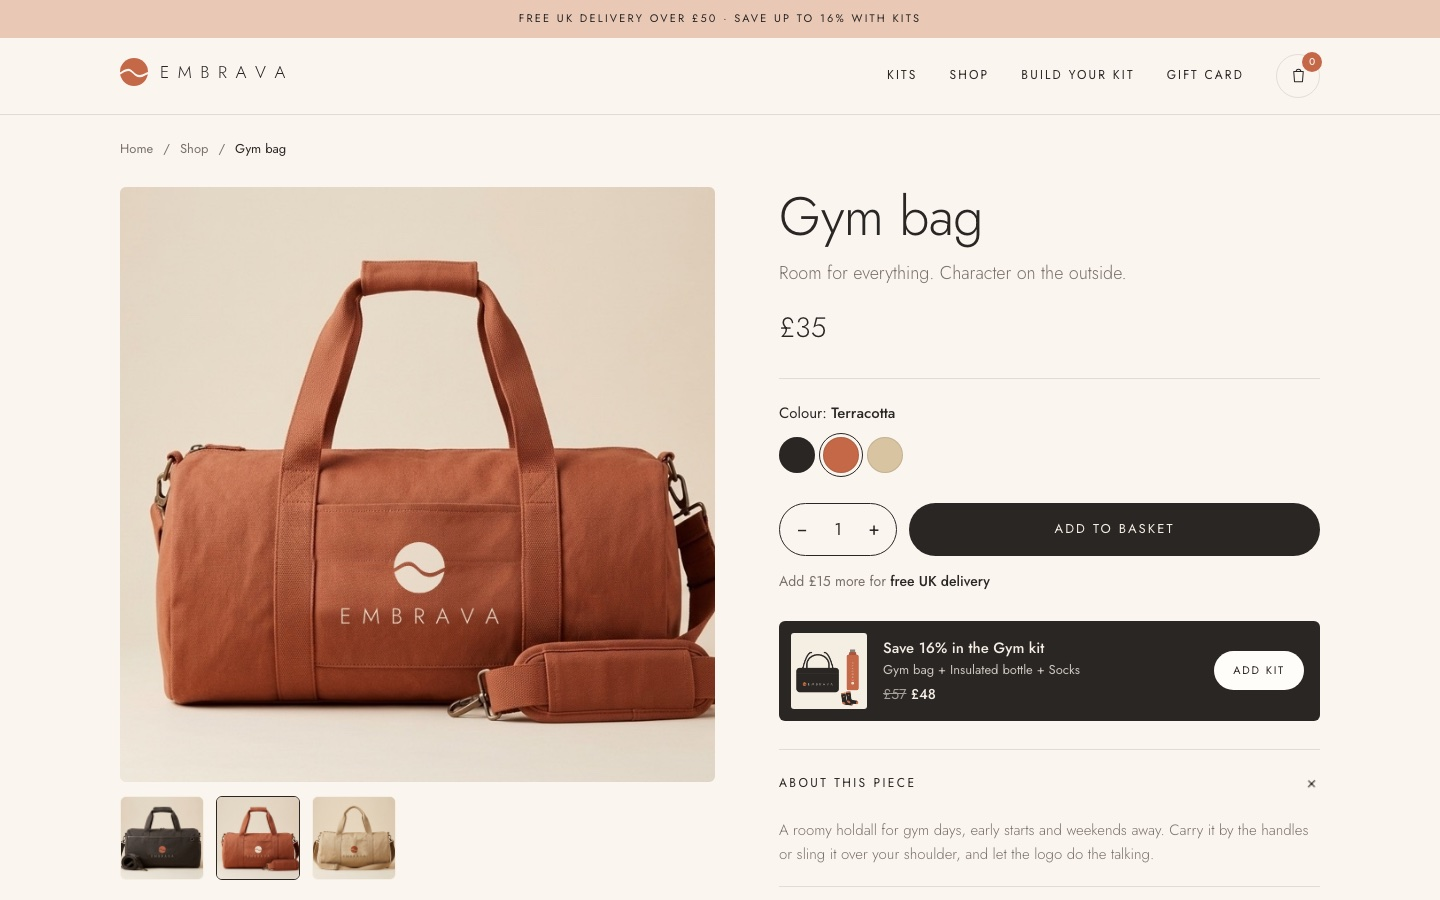
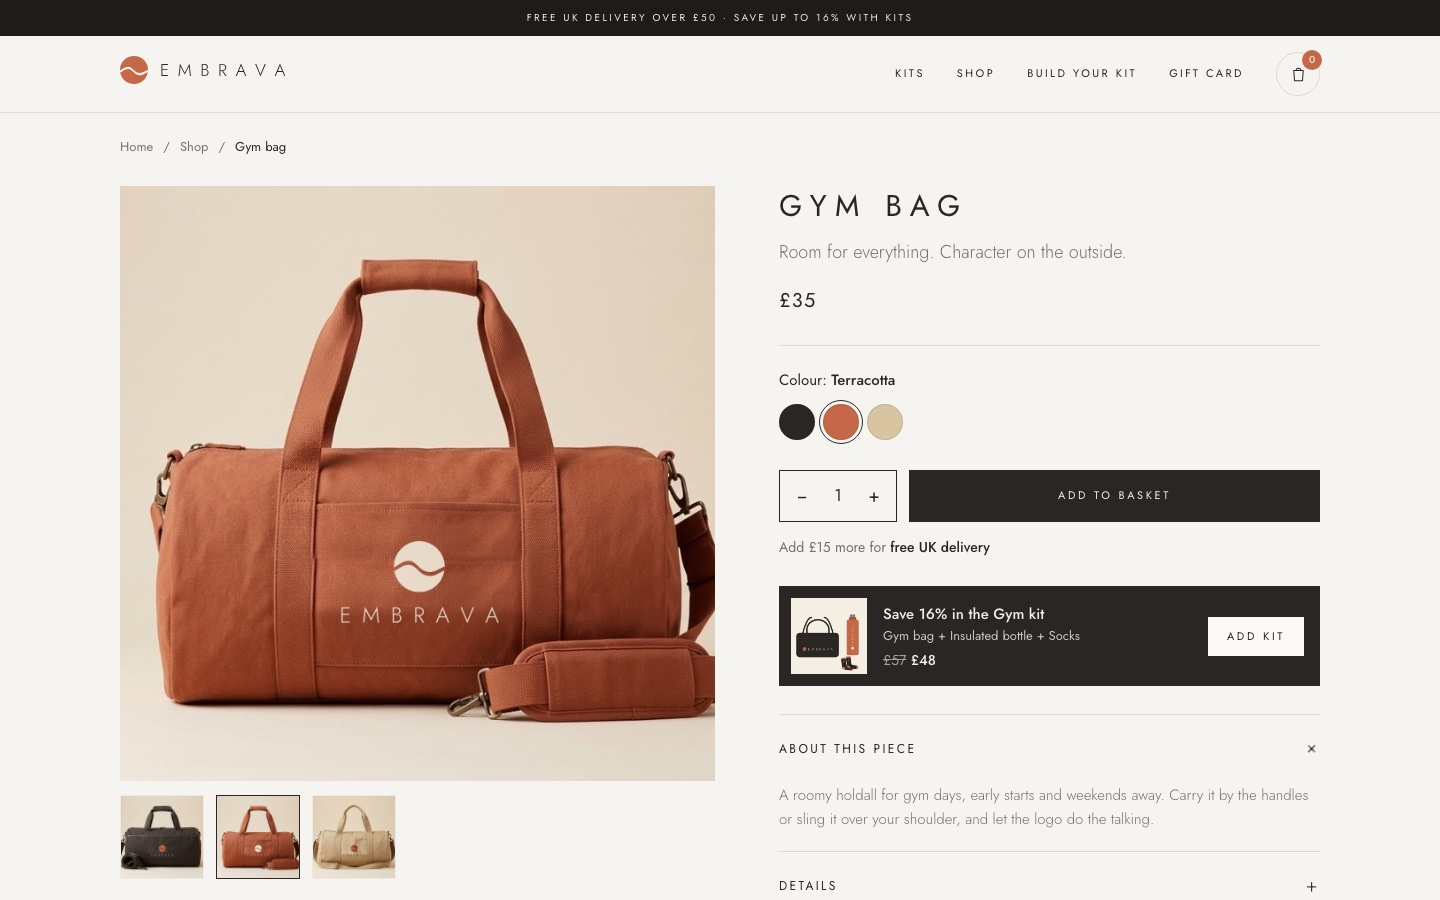
Editorial refresh: split full-bleed hero, spaced uppercase type, square corners and quieter neutrals across the store

diff --git a/styles.css b/styles.css
@@ -8,15 +8,15 @@
   --sand: #D9C4A2;
   --sand-soft: #E9DCC4;
   --cream: #F4EEE3;
-  --paper: #FAF6EF;
+  --paper: #F6F4F0;
   --line: rgba(42, 38, 36, .12);
   --muted: #7A706A;
   --bg: var(--paper);
-  --surface: #FFFDF9;
-  --surface-2: var(--cream);
+  --surface: #FBFAF7;
+  --surface-2: #EDEAE4;
   --on-dark: var(--cream);
   --grey: #B8ACA3;
-  --radius: 6px;
+  --radius: 0px;
   --font: "Jost", system-ui, -apple-system, "Segoe UI", sans-serif;
 }
 
@@ -62,9 +62,9 @@ strong { font-weight: 500; }
 .btn {
   display: inline-flex; align-items: center; justify-content: center; gap: 8px;
   padding: 15px 30px;
-  border-radius: 999px;
+  border-radius: 0;
   border: 1px solid transparent;
-  font-weight: 400; font-size: 13px; letter-spacing: .16em; text-transform: uppercase;
+  font-weight: 400; font-size: 11px; letter-spacing: .24em; text-transform: uppercase;
   text-decoration: none;
   transition: background .2s, color .2s, border-color .2s, transform .1s;
 }
@@ -81,18 +81,18 @@ strong { font-weight: 500; }
 
 /* Announcement + header */
 .announce {
-  background: var(--blush); color: var(--dark);
-  text-align: center; font-size: 11px; padding: 10px 16px; letter-spacing: .2em; text-transform: uppercase;
+  background: #1E1C1B; color: #EDEAE4;
+  text-align: center; font-size: 10px; padding: 10px 16px; letter-spacing: .24em; text-transform: uppercase;
 }
 .header {
   position: sticky; top: 0; z-index: 20;
-  background: rgba(250, 246, 239, .9);
+  background: rgba(246, 244, 240, .94);
   backdrop-filter: blur(10px);
   border-bottom: 1px solid var(--line);
 }
 .header__inner { display: flex; align-items: center; gap: 32px; height: 76px; }
 .header__logo { flex-shrink: 0; }
-.nav { display: flex; gap: 32px; margin-left: auto; font-size: 12px; letter-spacing: .18em; text-transform: uppercase; }
+.nav { display: flex; gap: 32px; margin-left: auto; font-size: 11px; letter-spacing: .22em; text-transform: uppercase; }
 .nav a { text-decoration: none; position: relative; padding: 4px 0; }
 .nav a::after {
   content: ""; position: absolute; left: 0; right: 0; bottom: -2px; height: 1px;
@@ -115,37 +115,25 @@ strong { font-weight: 500; }
 .cart-btn.bump { animation: bump .35s; }
 @keyframes bump { 50% { transform: scale(1.15); } }
 
-/* Hero */
-.hero { position: relative; padding: 56px 0 80px; overflow: hidden; }
-.hero__inner { position: relative; z-index: 1; display: grid; grid-template-columns: .85fr 1.15fr; gap: 28px; align-items: stretch; }
-.hero__copy { display: flex; flex-direction: column; justify-content: center; background: var(--surface-2); border-radius: var(--radius); padding: 48px 44px; }
+/* Hero: text on its own side, photo bleeding to the edge */
+.hero { display: grid; grid-template-columns: 1fr 1.25fr; min-height: 720px; }
+.hero__copy { display: flex; flex-direction: column; justify-content: flex-end; padding: 72px 64px 72px max(16px, calc((100vw - 1200px) / 2)); }
 /* One display style for the hero and every section title */
-.hero h1, .section__head h2, .gift__copy h2 { font-size: clamp(40px, 4.8vw, 64px); font-weight: 400; letter-spacing: 0.01em; line-height: 1.06; }
-.hero h1 { margin-bottom: 24px; }
-.hero__lead { font-size: 17px; font-weight: 400; color: #5F5650; max-width: 28em; margin: 0 0 36px; }
-.hero__ctas { display: flex; gap: 12px; flex-wrap: wrap; }
-.hero__swatches { list-style: none; padding: 0; margin: 44px 0 0; display: flex; gap: 22px; flex-wrap: wrap; font-size: 11px; letter-spacing: .18em; text-transform: uppercase; color: var(--muted); }
-.hero__swatches li { display: flex; align-items: center; gap: 8px; }
-.hero__swatches span { width: 12px; height: 12px; border-radius: 50%; background: var(--c); box-shadow: inset 0 0 0 1px var(--line); }
-.hero__media { position: relative; }
-.hero__img {
-  position: relative; z-index: 1; aspect-ratio: 4 / 3; object-fit: cover; height: 100%;
-  border-radius: var(--radius); width: 100%;
-}
-.hero__tag {
-  position: absolute; z-index: 2; left: 20px; bottom: 20px;
-  display: flex; align-items: center; gap: 10px;
-  background: var(--surface); border-radius: 999px; padding: 9px 16px 9px 10px;
-  font-size: 11px; letter-spacing: .16em; text-transform: uppercase;
-}
+.hero h1, .section__head h2, .gift__copy h2 { font-size: clamp(22px, 2.3vw, 30px); font-weight: 400; letter-spacing: .28em; text-transform: uppercase; line-height: 1.35; }
+.hero h1 { margin-bottom: 32px; }
+.hero__links { display: flex; gap: 36px; flex-wrap: wrap; }
+.hero__links a { font-size: 11px; letter-spacing: .3em; text-transform: uppercase; text-decoration: none; border-bottom: 1px solid currentColor; padding-bottom: 6px; white-space: nowrap; }
+.hero__links a:hover { color: var(--muted); }
+.hero__media { position: relative; background: var(--surface-2); }
+.hero__img { position: absolute; inset: 0; width: 100%; height: 100%; object-fit: cover; object-position: 50% 55%; }
 
 /* Sections */
-.section { padding: 112px 0; }
+.section { padding: 96px 0; }
 .section--tight { padding: 56px 0; }
 .section--sand { background: var(--surface-2); }
 .section__head { margin-bottom: 52px; max-width: 780px; }
 .section__head--row { display: flex; justify-content: space-between; align-items: flex-end; gap: 24px; max-width: none; flex-wrap: wrap; }
-.section__sub { color: var(--muted); font-size: 17px; font-weight: 300; margin: 16px 0 0; }
+.section__sub { color: var(--muted); font-size: 14px; font-weight: 300; letter-spacing: .02em; margin: 14px 0 0; }
 .section--sand .section__sub { color: var(--muted); }
 
 /* Kits */
@@ -160,10 +148,10 @@ strong { font-weight: 500; }
 .kit:hover { transform: translateY(-3px); }
 .kit--terracotta { --bg: var(--terracotta-soft); --fg: var(--dark); --accent: var(--dark); }
 .kit--sand { --bg: var(--blush); --fg: var(--dark); --accent: var(--terracotta); }
-.kit__img { border-radius: 3px; aspect-ratio: 1; object-fit: cover; margin-bottom: 18px; }
+.kit__img { border-radius: 0; aspect-ratio: 1; object-fit: cover; margin-bottom: 18px; }
 .kit__body { padding: 0 8px; display: flex; flex-direction: column; flex: 1; }
-.kit__badge { align-self: flex-start; font-size: 10px; letter-spacing: .2em; text-transform: uppercase; padding: 4px 10px; border-radius: 999px; border: 1px solid currentColor; opacity: .85; margin-bottom: 14px; }
-.kit h3 { font-size: 26px; margin-bottom: 4px; }
+.kit__badge { align-self: flex-start; font-size: 10px; letter-spacing: .2em; text-transform: uppercase; padding: 4px 10px; border-radius: 0; border: 1px solid currentColor; opacity: .85; margin-bottom: 14px; }
+.kit h3 { font-size: 15px; font-weight: 400; letter-spacing: .24em; text-transform: uppercase; margin-bottom: 6px; }
 .kit__for { font-size: 14px; font-weight: 300; opacity: .8; margin: 0 0 16px; }
 .kit__items { list-style: none; padding: 0; margin: 0 0 22px; font-size: 14px; font-weight: 300; }
 .kit__items li { padding: 6px 0; border-top: 1px solid color-mix(in srgb, var(--fg) 18%, transparent); }
@@ -194,25 +182,25 @@ strong { font-weight: 500; }
 .filters { display: flex; gap: 8px; flex-wrap: wrap; }
 .chip {
   border: 1px solid var(--line); background: transparent;
-  padding: 8px 18px; border-radius: 999px; font-size: 11px; letter-spacing: .16em; text-transform: uppercase;
+  padding: 8px 18px; border-radius: 0; font-size: 10px; letter-spacing: .22em; text-transform: uppercase;
   transition: background .2s, color .2s;
 }
 .chip:hover { border-color: var(--dark); }
 .chip[aria-pressed="true"] { background: var(--dark); border-color: var(--dark); color: var(--on-dark); }
 
 /* Product grid */
-.grid { display: grid; grid-template-columns: repeat(3, 1fr); gap: 48px 28px; }
+.grid { display: grid; grid-template-columns: repeat(3, 1fr); gap: 44px 12px; }
 .card { display: flex; flex-direction: column; }
 .card__media { position: relative; border-radius: var(--radius); overflow: hidden; aspect-ratio: 1; background: var(--surface-2); }
 .card__media img { width: 100%; height: 100%; object-fit: cover; transition: opacity .25s, transform .5s; }
 .card:hover .card__media img { transform: scale(1.03); }
 .card__media img.is-fading { opacity: 0; }
-.card__tag { position: absolute; top: 14px; left: 14px; background: var(--surface); font-size: 10px; letter-spacing: .2em; text-transform: uppercase; padding: 5px 11px; border-radius: 999px; }
-.card__body { padding: 18px 2px 0; display: flex; flex-direction: column; gap: 10px; flex: 1; }
+.card__tag { position: absolute; top: 14px; left: 14px; background: var(--surface); font-size: 10px; letter-spacing: .2em; text-transform: uppercase; padding: 5px 11px; border-radius: 0; }
+.card__body { padding: 16px 2px 0; display: flex; flex-direction: column; gap: 10px; flex: 1; }
 .card__top { display: flex; justify-content: space-between; align-items: baseline; gap: 12px; }
-.card h3 { font-size: 19px; font-weight: 400; letter-spacing: 0; }
-.card__price { font-weight: 400; font-size: 17px; white-space: nowrap; }
-.card__color { font-size: 13px; font-weight: 300; color: var(--muted); }
+.card h3 { font-size: 12px; font-weight: 400; letter-spacing: .2em; text-transform: uppercase; }
+.card__price { font-weight: 400; font-size: 13px; letter-spacing: .08em; white-space: nowrap; }
+.card__color { font-size: 12px; font-weight: 300; color: var(--muted); }
 .card__foot { display: flex; justify-content: space-between; align-items: center; margin-top: auto; padding-top: 6px; }
 .swatches { display: flex; gap: 8px; }
 .swatch {
@@ -224,7 +212,7 @@ strong { font-weight: 500; }
 .add-btn {
   display: inline-flex; align-items: center; gap: 6px;
   background: transparent; color: var(--dark); border: 1px solid var(--dark);
-  padding: 9px 16px; border-radius: 999px; font-size: 11px; letter-spacing: .16em; text-transform: uppercase;
+  padding: 9px 16px; border-radius: 0; font-size: 10px; letter-spacing: .22em; text-transform: uppercase;
   transition: background .2s, color .2s;
 }
 .add-btn:hover { background: var(--dark); color: var(--on-dark); }
@@ -246,8 +234,8 @@ strong { font-weight: 500; }
 }
 .pick:hover { transform: translateY(-2px); }
 .pick[aria-pressed="true"] { border-color: var(--dark); }
-.pick img { border-radius: 3px; aspect-ratio: 1; object-fit: cover; width: 100%; }
-.pick__name { display: block; font-weight: 400; font-size: 14px; margin: 12px 4px 0; }
+.pick img { border-radius: 0; aspect-ratio: 1; object-fit: cover; width: 100%; }
+.pick__name { display: block; font-weight: 400; font-size: 11px; letter-spacing: .2em; text-transform: uppercase; margin: 12px 4px 2px; }
 .pick__price { display: block; font-size: 13px; color: var(--muted); margin: 0 4px; }
 .pick__check {
   position: absolute; top: 14px; right: 14px; width: 28px; height: 28px; border-radius: 50%;
@@ -295,7 +283,7 @@ strong { font-weight: 500; }
 .footer__news label { display: block; font-size: 12px; letter-spacing: .2em; text-transform: uppercase; margin-bottom: 14px; }
 .footer__news-row { display: flex; gap: 8px; }
 .footer__news input {
-  flex: 1; min-width: 0; padding: 13px 18px; border-radius: 999px; border: 1px solid #574E4A;
+  flex: 1; min-width: 0; padding: 13px 18px; border-radius: 0; border: 1px solid #574E4A;
   background: transparent; color: var(--on-dark); font: inherit; font-size: 15px;
 }
 .footer__news input::placeholder { color: #8F837B; }
@@ -326,10 +314,10 @@ strong { font-weight: 500; }
 .cart__empty { padding: 48px 0; text-align: center; color: var(--muted); }
 .cart__empty svg { width: 48px; height: 48px; color: var(--blush); margin: 0 auto 16px; display: block; }
 .line { display: grid; grid-template-columns: 72px 1fr auto; gap: 14px; padding: 16px 0; border-bottom: 1px solid var(--line); align-items: center; }
-.line img { width: 72px; height: 72px; object-fit: cover; border-radius: 3px; }
+.line img { width: 72px; height: 72px; object-fit: cover; border-radius: 0; }
 .line__name { font-weight: 400; font-size: 15px; }
 .line__meta { font-size: 13px; color: var(--muted); }
-.qty { display: inline-flex; align-items: center; border: 1px solid var(--line); border-radius: 999px; margin-top: 6px; }
+.qty { display: inline-flex; align-items: center; border: 1px solid var(--line); border-radius: 0; margin-top: 6px; }
 .qty button { width: 28px; height: 28px; border: 0; background: transparent; font-size: 16px; }
 .qty span { min-width: 20px; text-align: center; font-size: 14px; }
 .line__price { font-weight: 400; text-align: right; }
@@ -341,7 +329,7 @@ strong { font-weight: 500; }
 .toast {
   position: fixed; left: 50%; bottom: 24px; z-index: 60;
   transform: translate(-50%, calc(100% + 40px)); visibility: hidden; transition: transform .3s, visibility .3s;
-  background: var(--dark); color: var(--on-dark); padding: 12px 20px; border-radius: 999px; font-size: 14px;
+  background: var(--dark); color: var(--on-dark); padding: 12px 20px; border-radius: 0; font-size: 13px; letter-spacing: .04em;
   max-width: calc(100% - 32px);
 }
 .toast.is-on { transform: translate(-50%, 0); visibility: visible; }
@@ -355,10 +343,10 @@ strong { font-weight: 500; }
 @media (max-width: 860px) {
   .nav { display: none; }
   .header__inner { justify-content: space-between; }
-  .hero { padding: 24px 0 56px; }
-  .hero__copy { padding: 36px 24px; }
-  .hero__img { height: auto; }
-  .hero__inner, .gift__inner { grid-template-columns: 1fr; gap: 44px; }
+  .hero { grid-template-columns: 1fr; min-height: 0; }
+  .hero__media { order: -1; aspect-ratio: 4 / 3; }
+  .hero__copy { padding: 36px 16px 56px; }
+  .gift__inner { grid-template-columns: 1fr; gap: 44px; }
   .grid { grid-template-columns: repeat(2, 1fr); }
   .footer__inner { grid-template-columns: 1fr; gap: 36px; }
   .section { padding: 72px 0; }
@@ -404,9 +392,9 @@ strong { font-weight: 500; }
 .pdp__thumb { width: 84px; height: 84px; padding: 0; border: 1px solid transparent; border-radius: var(--radius); overflow: hidden; background: var(--surface-2); }
 .pdp__thumb img { width: 100%; height: 100%; object-fit: cover; }
 .pdp__thumb[aria-pressed="true"] { border-color: var(--dark); }
-.pdp__info h1 { font-size: clamp(36px, 4.4vw, 54px); margin-bottom: 12px; }
+.pdp__info h1 { font-size: clamp(22px, 2.3vw, 30px); font-weight: 400; letter-spacing: .28em; text-transform: uppercase; line-height: 1.35; margin-bottom: 12px; }
 .pdp__lead { font-size: 18px; font-weight: 300; color: var(--muted); margin: 0 0 18px; }
-.pdp__price { font-size: 28px; font-weight: 300; margin: 0 0 28px; }
+.pdp__price { font-size: 20px; font-weight: 400; letter-spacing: .06em; margin: 0 0 28px; }
 .pdp__option { padding: 22px 0; border-top: 1px solid var(--line); }
 .pdp__label { margin: 0 0 12px; font-size: 15px; }
 .swatches--lg .swatch { width: 36px; height: 36px; }
@@ -425,7 +413,7 @@ strong { font-weight: 500; }
 }
 .upsell--sand { --bg: var(--blush); --fg: var(--dark); }
 .upsell--terracotta { --bg: var(--terracotta-soft); --fg: var(--dark); }
-.upsell img { width: 76px; height: 76px; border-radius: 3px; object-fit: cover; }
+.upsell img { width: 76px; height: 76px; border-radius: 0; object-fit: cover; }
 .upsell p { margin: 0; }
 .upsell__eyebrow { font-weight: 500; font-size: 15px; }
 .upsell__items { font-size: 13px; opacity: .8; }
@@ -461,12 +449,12 @@ strong { font-weight: 500; }
   .sticky-buy {
     display: grid; grid-template-columns: 48px 1fr auto; gap: 12px; align-items: center;
     position: fixed; left: 12px; right: 12px; bottom: 12px; z-index: 30;
-    background: var(--surface); border-radius: 16px; padding: 8px 8px 8px 8px;
+    background: var(--surface); border-radius: 0; padding: 8px 8px 8px 8px;
     box-shadow: 0 12px 30px -10px rgba(0, 0, 0, .25);
     transform: translateY(calc(100% + 24px)); transition: transform .3s;
   }
   .sticky-buy.is-on { transform: none; }
-  .sticky-buy img { width: 48px; height: 48px; border-radius: 3px; object-fit: cover; }
+  .sticky-buy img { width: 48px; height: 48px; border-radius: 0; object-fit: cover; }
   .sticky-buy strong { display: block; font-size: 14px; }
   .sticky-buy span { font-size: 13px; color: var(--muted); }
   .sticky-buy .btn { padding: 11px 22px; }

diff --git a/_st.html b/_st.html
@@ -1,0 +1,29 @@
+<!doctype html><html><head><meta charset="utf-8"></head><body style="margin:0"><iframe id="f" src="index.html" style="width:1440px;height:1500px;border:0;display:block"></iframe>
+<script>
+const BASE=`
+:root{--bg:#F6F4F0;--surface:#F6F4F0;--surface-2:#EDEAE4}
+body{background:#F6F4F0}
+.announce{background:#1E1C1B;color:#EDEAE4;font-size:10px;letter-spacing:.24em}
+.header{background:rgba(246,244,240,.95)}.nav a{font-size:11px;letter-spacing:.22em}
+.rp-eyebrow{font-size:11px;letter-spacing:.3em;text-transform:uppercase;margin:0 0 14px;color:#6E6560}
+.rp-h1{font-size:30px;font-weight:400;letter-spacing:.28em;text-transform:uppercase;margin:0;line-height:1.35;color:#2A2624}
+.rp-links a{font-size:11px;letter-spacing:.3em;text-transform:uppercase;text-decoration:none;border-bottom:1px solid currentColor;padding-bottom:6px;margin-right:36px;color:#2A2624;white-space:nowrap}
+.section__head h2{font-size:22px!important;letter-spacing:.28em!important;text-transform:uppercase;font-weight:400!important}
+.section__sub{display:none}.section{padding:88px 0}
+.card{background:transparent;padding:0;border-radius:0}.card__media{border-radius:0}
+.card h3{font-size:12px;letter-spacing:.18em;text-transform:uppercase;font-weight:400}
+.card__price{font-size:12px;letter-spacing:.1em;font-weight:400}.card__color{font-size:11px}
+.grid{gap:14px 10px}.chip{border-radius:0;font-size:10px;letter-spacing:.2em;text-transform:uppercase;border-width:1px}.add-btn{border-radius:0}`;
+const V={
+1:{css:`.rp1 .img{height:600px;overflow:hidden;background:#E8DFD0}.rp1 .img img{width:100%;height:100%;object-fit:cover;object-position:50% 58%}
+.rp1 .band{display:flex;justify-content:space-between;align-items:flex-end;gap:40px;padding:44px 0 8px}`,
+hero:`<section class="rp1"><div class="img"><img src="assets/img/bag_sand.jpg" alt=""></div><div class="wrap band"><div><p class="rp-eyebrow">The essentials · Four colours</p><h1 class="rp-h1">Strength. Character. Movement.</h1></div><div class="rp-links"><a href="#shop">Shop the collection</a><a href="#kits">Shop kits</a></div></div></section>`},
+2:{css:`.rp2{display:grid;grid-template-columns:1fr 1.25fr;height:720px}
+.rp2 .copy{display:flex;flex-direction:column;justify-content:flex-end;padding:0 64px 72px max(16px,calc((100vw - 1200px)/2))}
+.rp2 .rp-h1{margin-bottom:32px}.rp2 .img{overflow:hidden;background:#E8DFD0}.rp2 .img img{width:100%;height:100%;object-fit:cover;object-position:50% 55%}`,
+hero:`<section class="rp2"><div class="copy"><p class="rp-eyebrow">The essentials · Four colours</p><h1 class="rp-h1">Strength.<br>Character.<br>Movement.</h1><div class="rp-links"><a href="#shop">Shop the collection</a><a href="#kits">Shop kits</a></div></div><div class="img"><img src="assets/img/bag_sand.jpg" alt=""></div></section>`}
+};
+const k=new URLSearchParams(location.search).get('v'), v=V[k];
+f.onload=()=>{const d=f.contentDocument;const st=d.createElement('style');st.textContent=BASE+v.css;d.head.appendChild(st);d.querySelector('section.hero').outerHTML=v.hero;
+ d.querySelector('.rp'+k).after(d.querySelector('#shop'));};
+</script></body></html>

diff --git a/index.html b/index.html
@@ -43,29 +43,16 @@
 
   <!-- HERO -->
   <section class="hero">
-    <div class="wrap hero__inner">
-      <div class="hero__copy">
-        <p class="eyebrow">Strength. Character. Movement.</p>
-        <h1>Train with<br>character.</h1>
-        <p class="hero__lead">Training gear in four colours made to go together. Pick piece by piece or take the full kit.</p>
-        <div class="hero__ctas">
-          <a href="#kits" class="btn btn--dark">Shop kits</a>
-          <a href="#shop" class="btn btn--ghost">Shop by product</a>
-        </div>
-        <ul class="hero__swatches" aria-label="Collection colours">
-          <li style="--c:var(--dark)"><span></span>Dark</li>
-          <li style="--c:var(--terracotta)"><span></span>Terracotta</li>
-          <li style="--c:var(--sand)"><span></span>Sand</li>
-          <li style="--c:var(--cream)"><span></span>Cream</li>
-        </ul>
+    <div class="hero__copy">
+      <p class="eyebrow">Training gear · Four colours</p>
+      <h1>Strength.<br>Character.<br>Movement.</h1>
+      <div class="hero__links">
+        <a href="#shop">Shop the collection</a>
+        <a href="#kits">Shop kits</a>
       </div>
-      <div class="hero__media">
-        <img src="assets/img/bag_sand.jpg" alt="Embrava gym bag in sand" class="hero__img" width="900" height="672">
-        <div class="hero__tag">
-          <svg class="mono" viewBox="0 0 164 164" aria-hidden="true"><use href="#symbol"/></svg>
-          <span>Gym bag · Sand</span>
-        </div>
-      </div>
+    </div>
+    <div class="hero__media">
+      <img src="assets/img/bag_sand.jpg" alt="Embrava gym bag in sand" class="hero__img" width="900" height="672">
     </div>
   </section>
 

diff --git a/case-study.html b/case-study.html
@@ -205,7 +205,7 @@
       </div>
       <div class="cs-split__body">
         <div class="cs-scroll" tabindex="0" aria-label="Full homepage screenshot, scrollable">
-          <img src="assets/case/home-full.jpg" alt="Full-length screenshot of the Embrava homepage: hero, kits, brand band, shop grid, build your kit, gift card and footer" width="1200" height="4697" loading="lazy">
+          <img src="assets/case/home-full.jpg" alt="Full-length screenshot of the Embrava homepage: hero, kits, brand band, shop grid, build your kit, gift card and footer" width="1200" height="4584" loading="lazy">
         </div>
       </div>
     </div>
